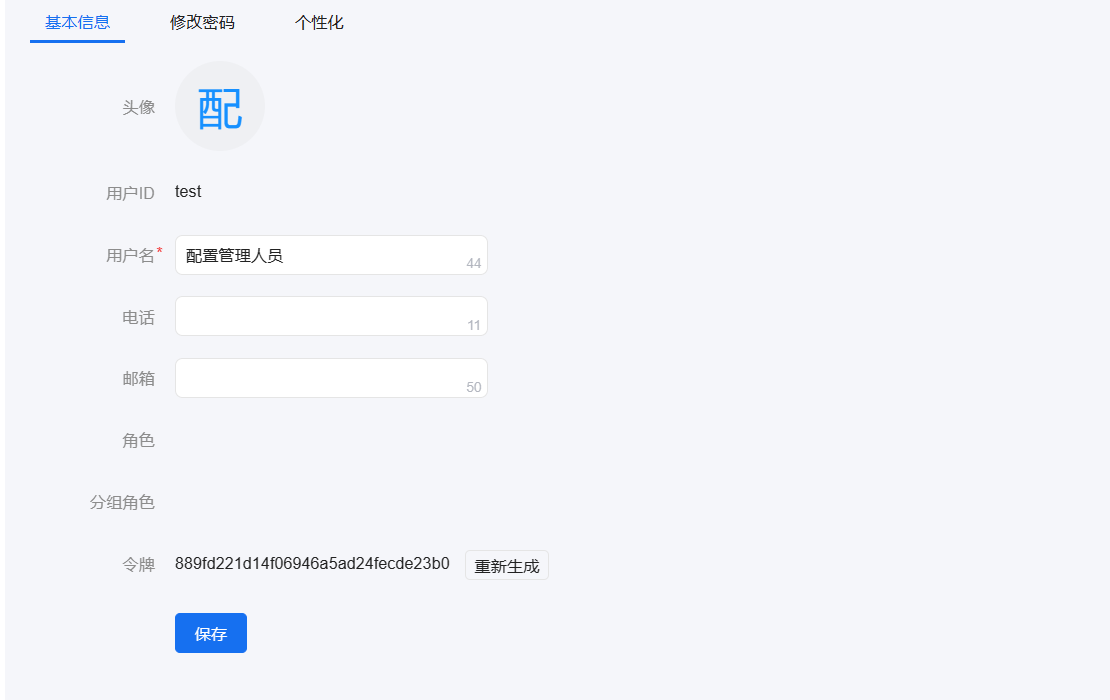
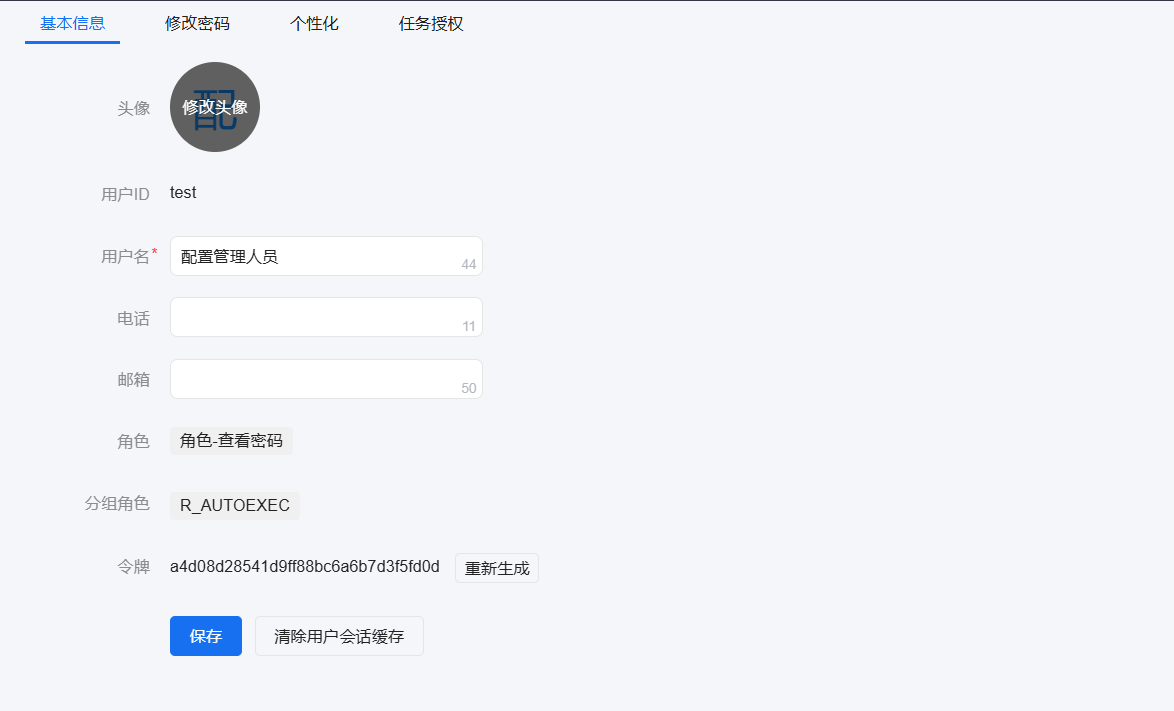
更新用户和权限文档

diff --git a/src/main/resources/neatlogic/resources/documentonline/zh/100.系统配置/1.用户和权限/个人设置.md b/src/main/resources/neatlogic/resources/documentonline/zh/100.系统配置/1.用户和权限/个人设置.md
@@ -1,10 +1,10 @@
 # 个人设置
-个人设置是一个快速编辑个人基本信息和个性化配置的页面，一共有四个页签，分别是基本信息、修改密码、个性化和任务授权。
+个人设置是编辑个人基本信息和个性化配置的页面，有四个功能，分别是基本信息、修改密码、个性化和任务授权。
 入口：点击用户头像-个人设置
 ![](images/个人设置.png)
 
 ## 基本信息
-基本信息下可修改当前用户的用户名、电话和邮箱数据，还支持重新生成用户令牌。
+基本信息中可以修改当前用户的用户名、电话和邮箱数据，还支持重新生成用户令牌。
 ![](images/个人设置-基本信息.png)
 
 ## 修改密码
@@ -13,28 +13,33 @@
 ## 个性化
 个性化中可以设置弹窗提醒、默认模块及模块默认首页。
 
-1. 弹窗提醒
-   ![](images/个人设置-个性化_弹窗提醒设置.png)
-   有四个操作支持弹窗提醒功能，分别是创建用户成功、创建角色成功、创建分组成功、工单上报成功。弹窗提醒有两个状态，禁用和启用，默认选项单选。<br>
-    启用状态下，每次操作成功都会出现弹窗，没有默认选项。<br>
-   ![](images/个人设置-个性化_弹窗提醒.png)
-   禁用状态下，自动选择返回列表，可以修改默认选项，这样每次操作成功时，不会出现弹窗，并且自动执行默认选项的操作。
+### 弹窗提醒
+平台有四个功能支持弹窗提醒功能，分别是创建用户、创建角色、创建分组、工单上报。
+![](images/个人设置-个性化_弹窗提醒设置.png)
 
-2. 默认模块
+弹窗提醒配置有两个状态，禁用和激活，默认选项单选。<br>
+1. 激活
    
-   当引用全局配置时，引用[默认首页](../5.基础服务/默认首页.md)管理中生效的配置。
-   ![](images/个人设置-个性化_默认模块设置.png)
-   默认模块是指登陆系统时默认跳转的模块，默认模块单选。<br>
-   如果未选择默认模块，登录成功后，会跳转到欢迎页面。
-    ![](images/个人设置-个性化_无默认模块.png)
-   如果设置了默认模块，登录成功后，自动跳转到默认模块的默认首页。
-   **备注** ：用户可选模块只显示有访问权限的模块，与上方模块菜单保持一致。
+   激活状态下，每次执行操作成功后，都会出现弹窗，没有默认选项，需要用户手动操作才能关闭弹窗。
+   ![](images/个人设置-个性化_弹窗提醒.png)
+2. 禁用
+   
+   禁用状态下，每次执行操作成功后，按照默认选项配置自动跳转页面。
 
-3. 默认首页
-   ![](images/个人设置-个性化_默认首页设置.png)
-   默认首页是指打开模块时默认跳转的页面，每个模块都可以设置默认首页，默认首页单选。
+### 默认模块
+默认模块是指登陆系统时默认跳转的模块，引用全局配置时，按照[默认首页](../5.基础服务/默认首页.md)的配置生效。<br>
+只有已激活且授权给当前用户的配置有效，当用户匹配到多个配置时，会执行排序最靠前的配置。
+![](images/个人设置-个性化_默认模块引用全局.png)
+未引用全局，支持用户自定义默认模块，默认模块单选但非必填。
+![](images/个人设置-个性化_默认模块设置.png)
+未设置默认模块，登录成功后，默认跳转到欢迎页面。
+![](images/个人设置-个性化_无默认模块.png)
+**备注** ：用户可选模块只显示有访问权限的模块，与上方模块菜单保持一致。
 
-   **备注** ：用户可设置默认首页的模块只包括有访问权限的模块，与上方模块菜单一致。
+### 默认首页
+默认首页是指打开模块时默认跳转的页面，每个模块都可以设置默认首页，默认首页单选但非必填。<br>
+![](images/个人设置-个性化_默认首页设置.png)
+**备注** ：用户可设置默认首页的模块只包括有访问权限的模块，与上方模块菜单一致。
 
 ## 任务授权
 任务授权是指把当前用户的待处理工单授权给指定用户代替其处理，这个功能可以解决用户临时无法处理工单的场景。

diff --git a/src/main/resources/neatlogic/resources/documentonline/zh/5.自动化/组合工具/组合工具.md b/src/main/resources/neatlogic/resources/documentonline/zh/5.自动化/组合工具/组合工具.md
@@ -17,7 +17,7 @@
 - 执行权限：用户有组合工具的执行权限时，管理页中组合工具的执行按钮才能使用，组合工具详情页面也会显示执行按钮。
 
 ## 管理页
-组合工具管理页支持添加、编辑、复制、导入和导出组合工具，以及添加作业和查看执行记录等功能。
+组合工具管理页支持添加、编辑、复制、导入、导出组合工具和查看引用列表，以及添加作业和查看执行记录等功能。
 ![](images/组合工具_管理页.png)
 按照组合工具审批的状态分成了通过、草稿、待审核和已驳回。
 草稿和已驳回的组合工具支持重新编辑并提交审核。待审核的组合工具只有有审批权限的用户可审批。

diff --git a/src/main/resources/neatlogic/resources/documentonline/zh/100.系统配置/1.用户和权限/用户和权限.md b/src/main/resources/neatlogic/resources/documentonline/zh/100.系统配置/1.用户和权限/用户和权限.md
@@ -1,7 +1,5 @@
 ## 用户、角色、分组关系
-用户是指系统的使用对象，用户根据权限大小分成普通用户和管理员用户。
-- 管理员用户是指可对一些管理页面进行操作的用户。
-- 普通用户则没有配置管理页面的操作权限，也看不到操作页面的入口，只能完成管理员授权的业务操作，例如服务上报和工单处理。
+用户是指系统的登录人，除了出场自带的超级管理员用户，所有用户功能使用范围都是由被授予的权限决定的。
 
 角色是用于定义具有相同身份的用户的集合，如运维人员和开发人员。
 
